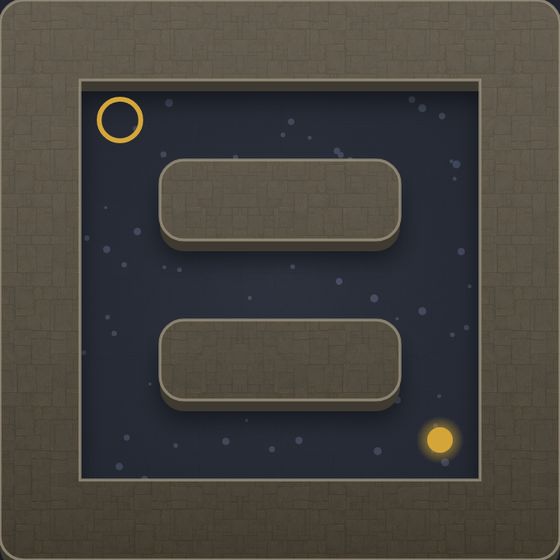
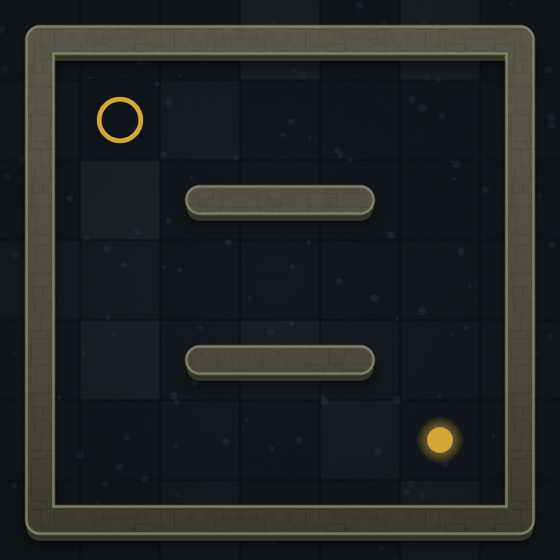
Add ridge wall style: thin raised edges instead of solid blocks
Per design direction, walls now default to a thin raised-edge skeleton
(nodes at wall-cell centers plus connector bars, rounded end caps from
the same neighbor data) with the floor visible around them. Adds floor
grout lines and per-tile brightness variation for a laid-stone look,
darkens the Ancient Ruins palette, and keeps the block style behind a
toggle on the POC screen.

diff --git a/lib/features/maze_render_poc/rendering/maze_painter.dart b/lib/features/maze_render_poc/rendering/maze_painter.dart
@@ -6,6 +6,16 @@ import 'package:labyrinth_legends/features/maze_render_poc/rendering/wall_shape_
 import 'package:labyrinth_legends/game_engine/models/cell_type.dart';
 import 'package:labyrinth_legends/game_engine/models/maze_grid.dart';
 
+/// How wall cells are turned into geometry.
+enum MazeWallStyle {
+  /// Full-cell extruded blocks (hedge/fortress look).
+  block,
+
+  /// Thin raised ridges along the wall-cell skeleton, floor visible around
+  /// them (ancient-ruins look, per design reference).
+  ridge,
+}
+
 /// Renders a [MazeGrid] as one merged vector shape with a themed skin.
 ///
 /// Rendering passes:
@@ -26,28 +36,36 @@ class MazePainter extends CustomPainter {
     required this.theme,
     this.textures = MazeThemeTextures.none,
     this.showTextures = true,
+    this.wallStyle = MazeWallStyle.ridge,
   }) : _geometries = WallShapeBuilder.build(grid);
 
   final MazeGrid grid;
   final MazeTheme theme;
   final MazeThemeTextures textures;
   final bool showTextures;
+  final MazeWallStyle wallStyle;
 
   final List<WallCellGeometry> _geometries;
 
   static const double _cornerRadiusFactor = 0.30;
-  static const double _extrusionFactor = 0.14;
+  static const double _blockExtrusionFactor = 0.14;
+  static const double _ridgeExtrusionFactor = 0.09;
+
+  /// Ridge width as a fraction of the cell (thin raised edge, not a block).
+  static const double _ridgeThicknessFactor = 0.34;
 
   @override
   void paint(Canvas canvas, Size size) {
     final cell = size.width / grid.width;
     final boardRect = Offset.zero & size;
-    final depth = cell * _extrusionFactor;
+    final isRidge = wallStyle == MazeWallStyle.ridge;
+    final depth =
+        cell * (isRidge ? _ridgeExtrusionFactor : _blockExtrusionFactor);
 
     _paintBackground(canvas, boardRect);
     _paintFloor(canvas, boardRect, cell);
 
-    final wallPath = _buildWallPath(cell);
+    final wallPath = isRidge ? _buildRidgePath(cell) : _buildBlockPath(cell);
 
     _paintWallShadow(canvas, wallPath, depth);
     _paintWallSide(canvas, wallPath, depth);
@@ -82,14 +100,48 @@ class MazePainter extends CustomPainter {
       );
     }
 
-    // Deterministic speckle noise keeps floors alive when no texture asset
-    // is present (and adds grain on top of textures).
-    final specklePaint = Paint()..color = theme.floorSpeckle;
+    // Per-tile brightness variation: hand-laid stone slabs, not a uniform
+    // surface. Deterministic per cell so it is stable across frames.
     for (var row = 0; row < grid.height; row++) {
       for (var col = 0; col < grid.width; col++) {
-        if (grid.cells[row][col].type == CellType.wall) {
-          continue;
-        }
+        final hash = _hash(row * 7 + 3, col * 13 + 5);
+        final delta = ((hash & 0xFF) / 255.0 - 0.5) * 0.10;
+        final tile = Rect.fromLTWH(col * cell, row * cell, cell, cell);
+        canvas.drawRect(
+          tile,
+          Paint()
+            ..color = delta >= 0
+                ? Colors.white.withValues(alpha: delta)
+                : Colors.black.withValues(alpha: -delta),
+        );
+      }
+    }
+
+    // Grout lines between tiles.
+    final groutPaint = Paint()
+      ..color = Colors.black.withValues(alpha: 0.30)
+      ..strokeWidth = cell * 0.022;
+    for (var col = 1; col < grid.width; col++) {
+      canvas.drawLine(
+        Offset(col * cell, 0),
+        Offset(col * cell, boardRect.height),
+        groutPaint,
+      );
+    }
+    for (var row = 1; row < grid.height; row++) {
+      canvas.drawLine(
+        Offset(0, row * cell),
+        Offset(boardRect.width, row * cell),
+        groutPaint,
+      );
+    }
+
+    // Deterministic speckle noise keeps floors alive when no texture asset
+    // is present (and adds grain on top of textures).
+    final specklePaint =
+        Paint()..color = theme.floorSpeckle.withValues(alpha: 0.5);
+    for (var row = 0; row < grid.height; row++) {
+      for (var col = 0; col < grid.width; col++) {
         for (var i = 0; i < 3; i++) {
           final hash = _hash(row * 31 + i, col * 17 + i);
           final dx = (hash & 0xFF) / 255.0;
@@ -119,7 +171,7 @@ class MazePainter extends CustomPainter {
     );
   }
 
-  Path _buildWallPath(double cell) {
+  Path _buildBlockPath(double cell) {
     final radius = Radius.circular(cell * _cornerRadiusFactor);
     var merged = Path();
     for (final g in _geometries) {
@@ -136,6 +188,52 @@ class MazePainter extends CustomPainter {
         merged,
         Path()..addRRect(rrect),
       );
+    }
+    return merged;
+  }
+
+  /// Thin ridge skeleton: a node at each wall cell's center plus connector
+  /// bars toward east/south wall neighbors (west/north are covered by the
+  /// neighbor's own bars). End caps and outer corners round via the same
+  /// neighbor data as the block style.
+  Path _buildRidgePath(double cell) {
+    final t = cell * _ridgeThicknessFactor;
+    final cap = Radius.circular(t * 0.5);
+    var merged = Path();
+
+    for (final g in _geometries) {
+      final cx = (g.col + 0.5) * cell;
+      final cy = (g.row + 0.5) * cell;
+
+      final node = RRect.fromRectAndCorners(
+        Rect.fromCenter(center: Offset(cx, cy), width: t, height: t),
+        topLeft: g.roundNorthWest ? cap : Radius.zero,
+        topRight: g.roundNorthEast ? cap : Radius.zero,
+        bottomRight: g.roundSouthEast ? cap : Radius.zero,
+        bottomLeft: g.roundSouthWest ? cap : Radius.zero,
+      );
+      merged = Path.combine(
+        PathOperation.union,
+        merged,
+        Path()..addRRect(node),
+      );
+
+      if (g.wallEast) {
+        merged = Path.combine(
+          PathOperation.union,
+          merged,
+          Path()
+            ..addRect(Rect.fromLTWH(cx, cy - t / 2, cell, t)),
+        );
+      }
+      if (g.wallSouth) {
+        merged = Path.combine(
+          PathOperation.union,
+          merged,
+          Path()
+            ..addRect(Rect.fromLTWH(cx - t / 2, cy, t, cell)),
+        );
+      }
     }
     return merged;
   }
@@ -286,6 +384,7 @@ class MazePainter extends CustomPainter {
     return oldDelegate.grid != grid ||
         oldDelegate.theme != theme ||
         oldDelegate.textures != textures ||
-        oldDelegate.showTextures != showTextures;
+        oldDelegate.showTextures != showTextures ||
+        oldDelegate.wallStyle != wallStyle;
   }
 }

diff --git a/lib/features/maze_render_poc/presentation/maze_render_poc_screen.dart b/lib/features/maze_render_poc/presentation/maze_render_poc_screen.dart
@@ -32,6 +32,7 @@ class _MazeRenderPocScreenState extends ConsumerState<MazeRenderPocScreen> {
   MazeTheme _theme = MazeTheme.ancientRuins;
   MazeThemeTextures _textures = MazeThemeTextures.none;
   bool _showTextures = true;
+  MazeWallStyle _wallStyle = MazeWallStyle.ridge;
   String _levelId = _levelIds.first;
 
   @override
@@ -111,6 +112,18 @@ class _MazeRenderPocScreenState extends ConsumerState<MazeRenderPocScreen> {
                           onPressed: () =>
                               setState(() => _showTextures = !_showTextures),
                         ),
+                        LLButton(
+                          key: const Key('mazePocWallStyleToggle'),
+                          label: _wallStyle == MazeWallStyle.ridge
+                              ? 'Walls: Raised Edges'
+                              : 'Walls: Solid Blocks',
+                          variant: LLButtonVariant.ghost,
+                          onPressed: () => setState(() {
+                            _wallStyle = _wallStyle == MazeWallStyle.ridge
+                                ? MazeWallStyle.block
+                                : MazeWallStyle.ridge;
+                          }),
+                        ),
                       ],
                     ),
                   ),
@@ -149,6 +162,7 @@ class _MazeRenderPocScreenState extends ConsumerState<MazeRenderPocScreen> {
                           theme: _theme,
                           textures: _textures,
                           showTextures: _showTextures,
+                          wallStyle: _wallStyle,
                         ),
                       AsyncError(:final error) => Padding(
                           padding: const EdgeInsets.all(LLSpacing.md),
@@ -180,12 +194,14 @@ class _Board extends StatelessWidget {
     required this.theme,
     required this.textures,
     required this.showTextures,
+    required this.wallStyle,
   });
 
   final LevelDefinition level;
   final MazeTheme theme;
   final MazeThemeTextures textures;
   final bool showTextures;
+  final MazeWallStyle wallStyle;
 
   @override
   Widget build(BuildContext context) {
@@ -201,6 +217,7 @@ class _Board extends StatelessWidget {
             theme: theme,
             textures: textures,
             showTextures: showTextures,
+            wallStyle: wallStyle,
           ),
         ),
       ),

diff --git a/lib/features/maze_render_poc/rendering/maze_theme.dart b/lib/features/maze_render_poc/rendering/maze_theme.dart
@@ -60,13 +60,13 @@ class MazeTheme {
   static const MazeTheme ancientRuins = MazeTheme(
     id: 'ancient_ruins',
     name: 'Ancient Ruins',
-    backgroundTop: Color(0xFF141A24),
-    backgroundBottom: Color(0xFF080B12),
-    floorBase: Color(0xFF3C4353),
-    floorSpeckle: Color(0xFF4C5468),
-    wallTop: Color(0xFF6E6759),
-    wallSide: Color(0xFF3E3A31),
-    wallEdgeHighlight: Color(0xFF9C927D),
+    backgroundTop: Color(0xFF10161C),
+    backgroundBottom: Color(0xFF06090C),
+    floorBase: Color(0xFF1A222A),
+    floorSpeckle: Color(0xFF27313B),
+    wallTop: Color(0xFF5D5F4E),
+    wallSide: Color(0xFF33352A),
+    wallEdgeHighlight: Color(0xFF8B8A6C),
     accent: Color(0xFFD4A63A),
     wallTexturePath: 'assets/images/textures/ruins_wall.jpg',
     floorTexturePath: 'assets/images/textures/ruins_floor.jpg',

diff --git a/docs/99_Reviews/Design_System/0063_maze_render_poc.md b/docs/99_Reviews/Design_System/0063_maze_render_poc.md
@@ -135,8 +135,13 @@ docs/99_Reviews/README.md (index)
 
 | Screen | Path or description |
 |--------|---------------------|
-| level_010, Ancient Ruins theme | `docs/assets/maze_render_poc/maze_poc_ancient_ruins.png` |
-| level_010, Amazon Jungle theme (same geometry, swapped skin) | `docs/assets/maze_render_poc/maze_poc_amazon_jungle.png` |
+| level_010, Ancient Ruins theme, ridge wall style | `docs/assets/maze_render_poc/maze_poc_ancient_ruins.png` |
+| level_010, Amazon Jungle theme, ridge wall style (same geometry, swapped skin) | `docs/assets/maze_render_poc/maze_poc_amazon_jungle.png` |
+
+Per Human Owner feedback (2026-07-07), the default wall style is `ridge`:
+thin raised edges along the wall skeleton with floor and grout visible
+around them, matching the ancient-ruins design reference. The original
+full-cell `block` style remains available via the screen toggle.
 
 > Renders produced through `MazePainter` off-screen at 700×700; identical code path to the dev screen.
 